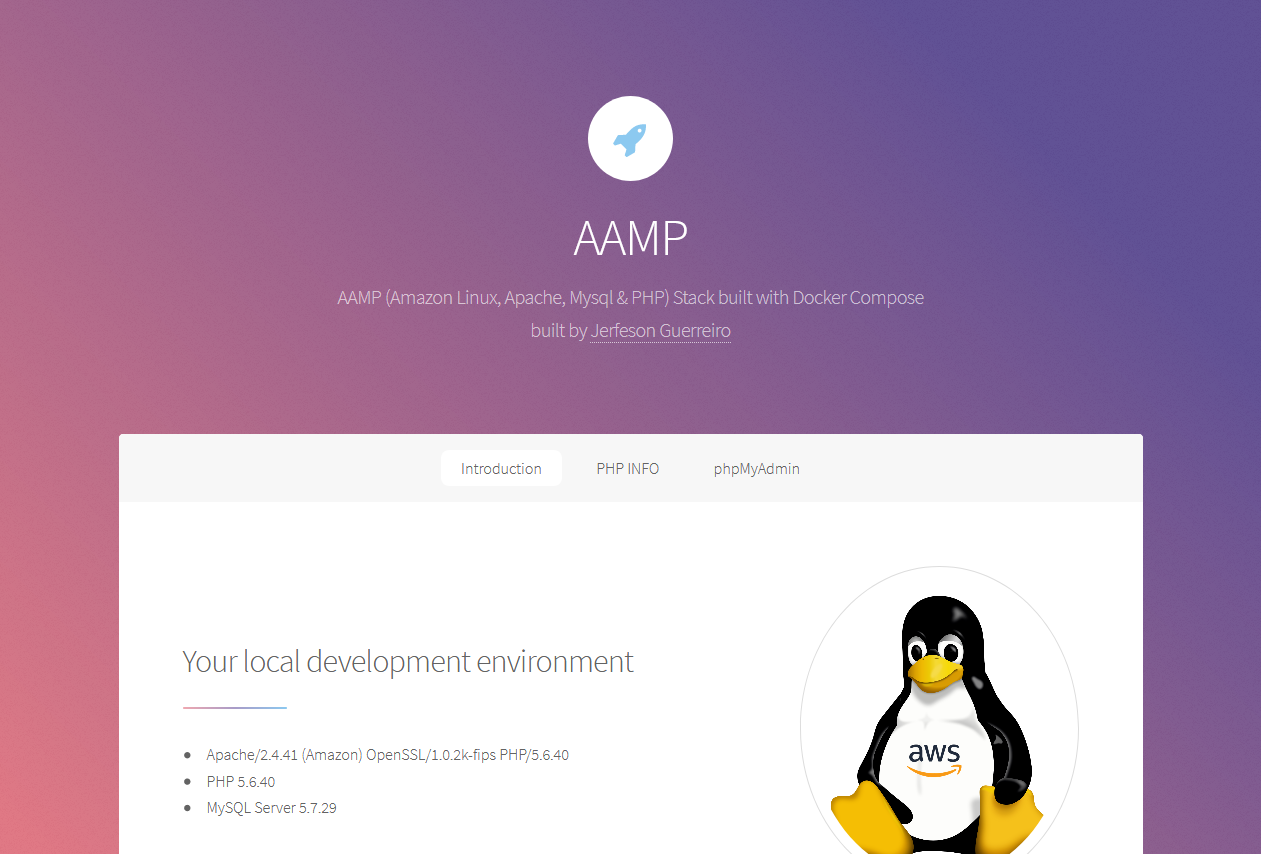
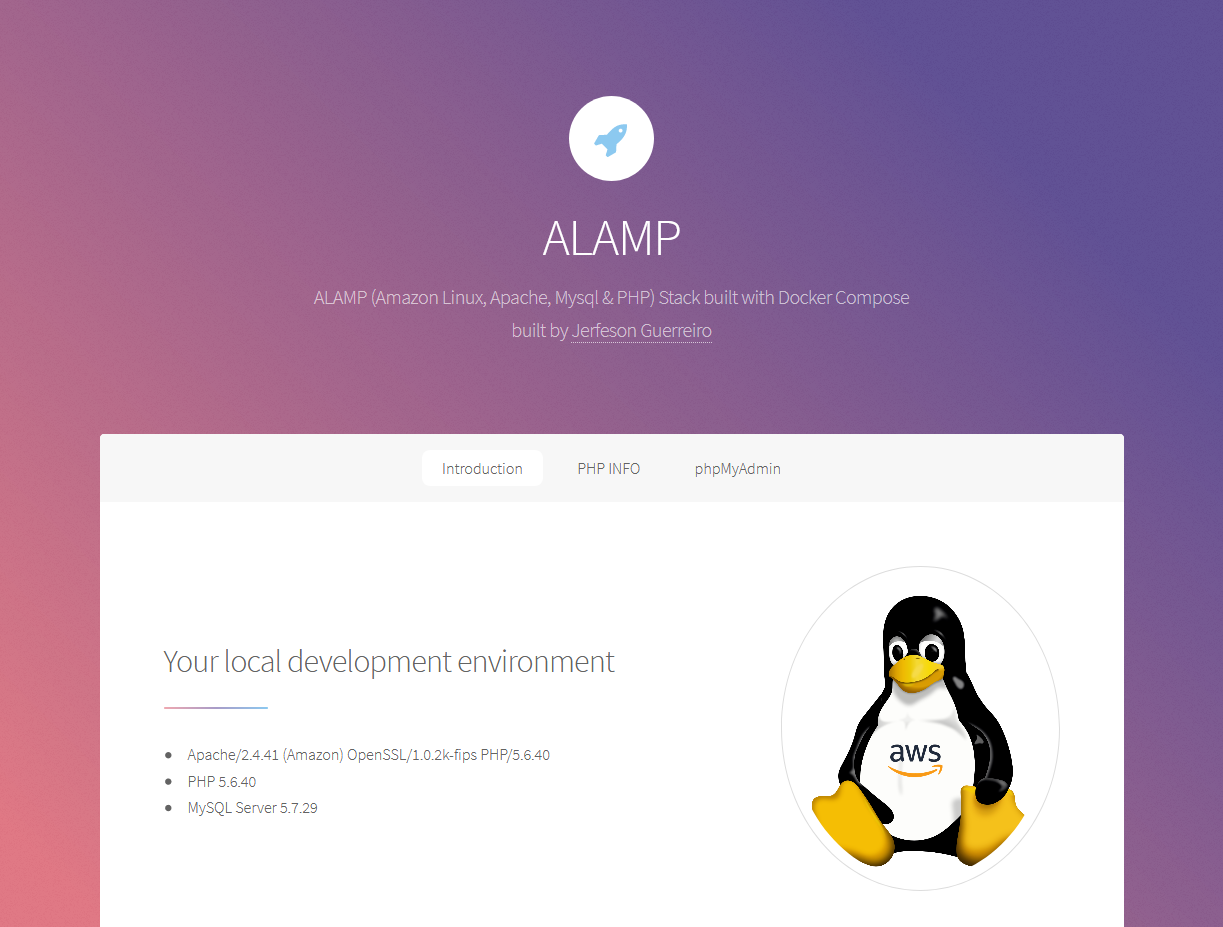
:sparkles: change project name

diff --git a/www/index.php b/www/index.php
@@ -6,7 +6,7 @@
 -->
 <html>
 <head>
-    <title>AAMP</title>
+    <title>ALAMP</title>
     <meta charset="utf-8"/>
     <meta name="viewport" content="width=device-width, initial-scale=1, user-scalable=no"/>
     <link rel="stylesheet" href="assets/css/main.css"/>
@@ -22,8 +22,8 @@
     <!-- Header -->
     <header id="header" class="alt">
         <span class="logo"><img src="images/logo.svg" alt=""/></span>
-        <h1>AAMP</h1>
-        <p>AAMP (Amazon Linux, Apache, Mysql & PHP) Stack built with Docker Compose<br/>
+        <h1>ALAMP</h1>
+        <p>ALAMP (Amazon Linux, Apache, Mysql & PHP) Stack built with Docker Compose<br/>
             built by <a href="https://github.com/jerfeson">Jerfeson Guerreiro</a></p>
     </header>
 

diff --git a/README.md b/README.md
@@ -1,8 +1,8 @@
-# AAMP (Amazon Linux, Apache, Mysql & PHP) stack built with Docker Compose
+# ALAMP (Amazon Linux, Apache, Mysql & PHP) stack built with Docker Compose
 
 ![Landing Page](screenshot.png)
 
-This is a basic AAMP stack environment built using Docker Compose. It consists following:
+This is a basic ALAMP stack environment built using Docker Compose. It consists following:
 
 - PHP 5.6.X
 - Apache 2.4
@@ -14,7 +14,7 @@ This is a basic AAMP stack environment built using Docker Compose. It consists f
 Clone this repository on your local computer. Run the `docker-compose up -d`.
 
 ```shell
-git clone https://github.com/jerfeson/docker-compose-aamp.git
+git clone https://github.com/jerfeson/docker-compose-alamp.git
 cd docker-compose-lamp/
 git fetch --all
 git checkout 5.6.x
@@ -23,7 +23,7 @@ docker-compose up -d
 ```
 > Please make sure that you are using `5.6.x` branch.
 
-Your AAMP stack is now ready!! You can access it via `http://localhost`.
+Your ALAMP stack is now ready!! You can access it via `http://localhost`.
 
 ## Configuration
 
@@ -114,4 +114,4 @@ welcome to discuss a bugs, features and ideas.
 
 ## License
 
-jerfeson/docker-compose-aamp is release under the MIT license.
+jerfeson/docker-compose-alamp is release under the MIT license.
